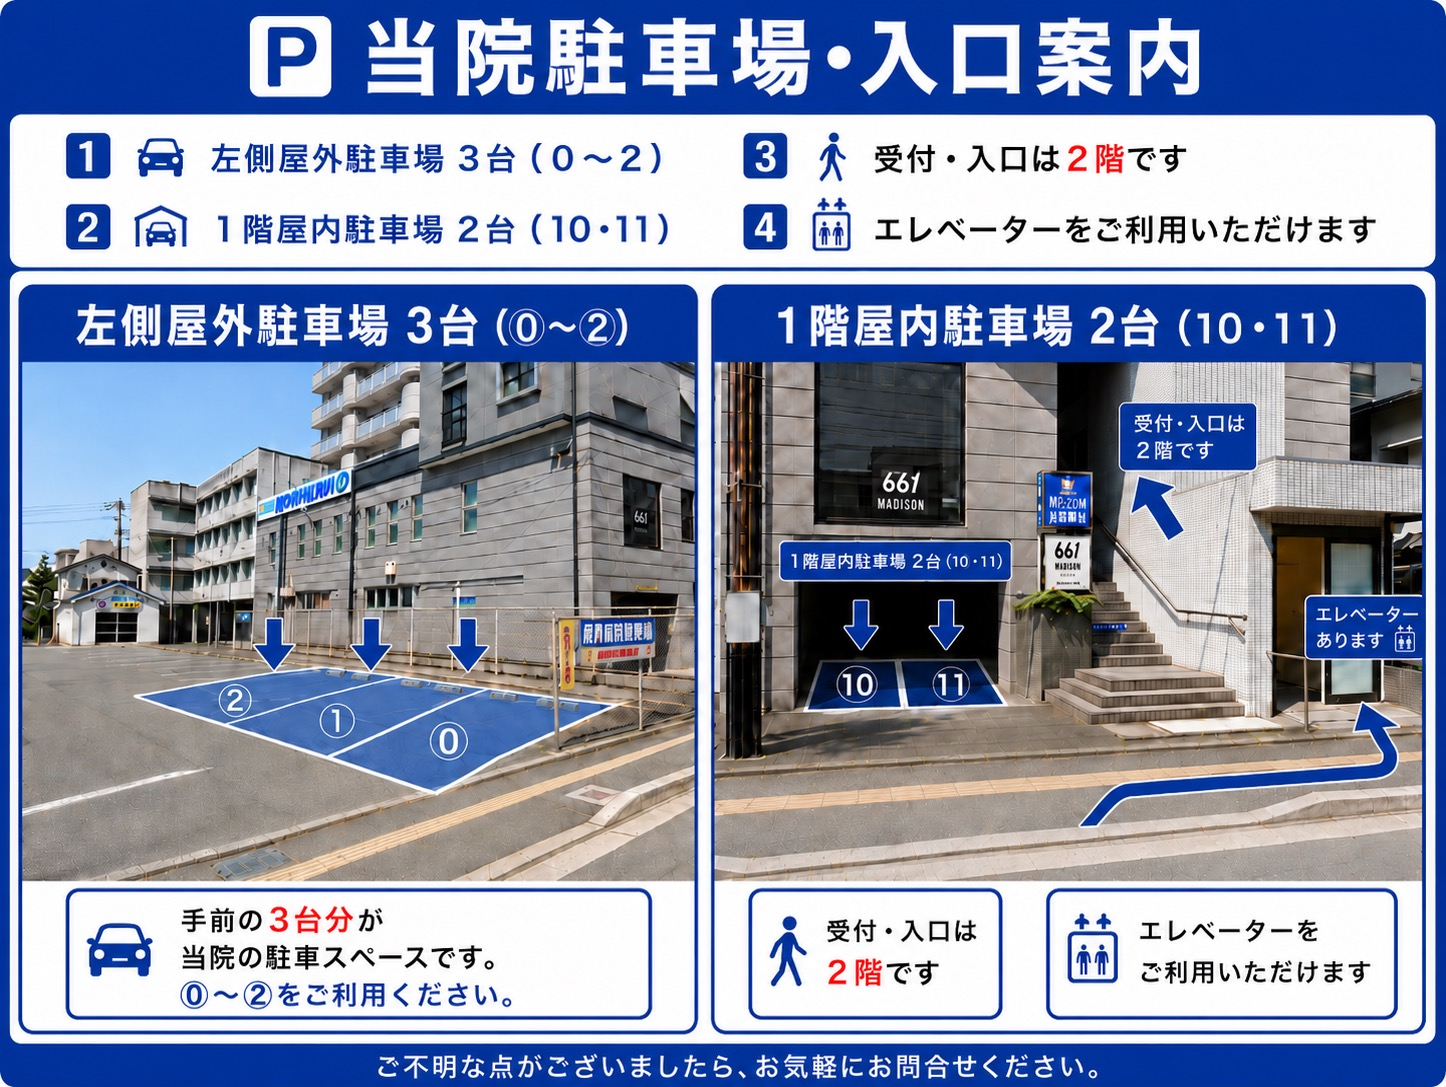
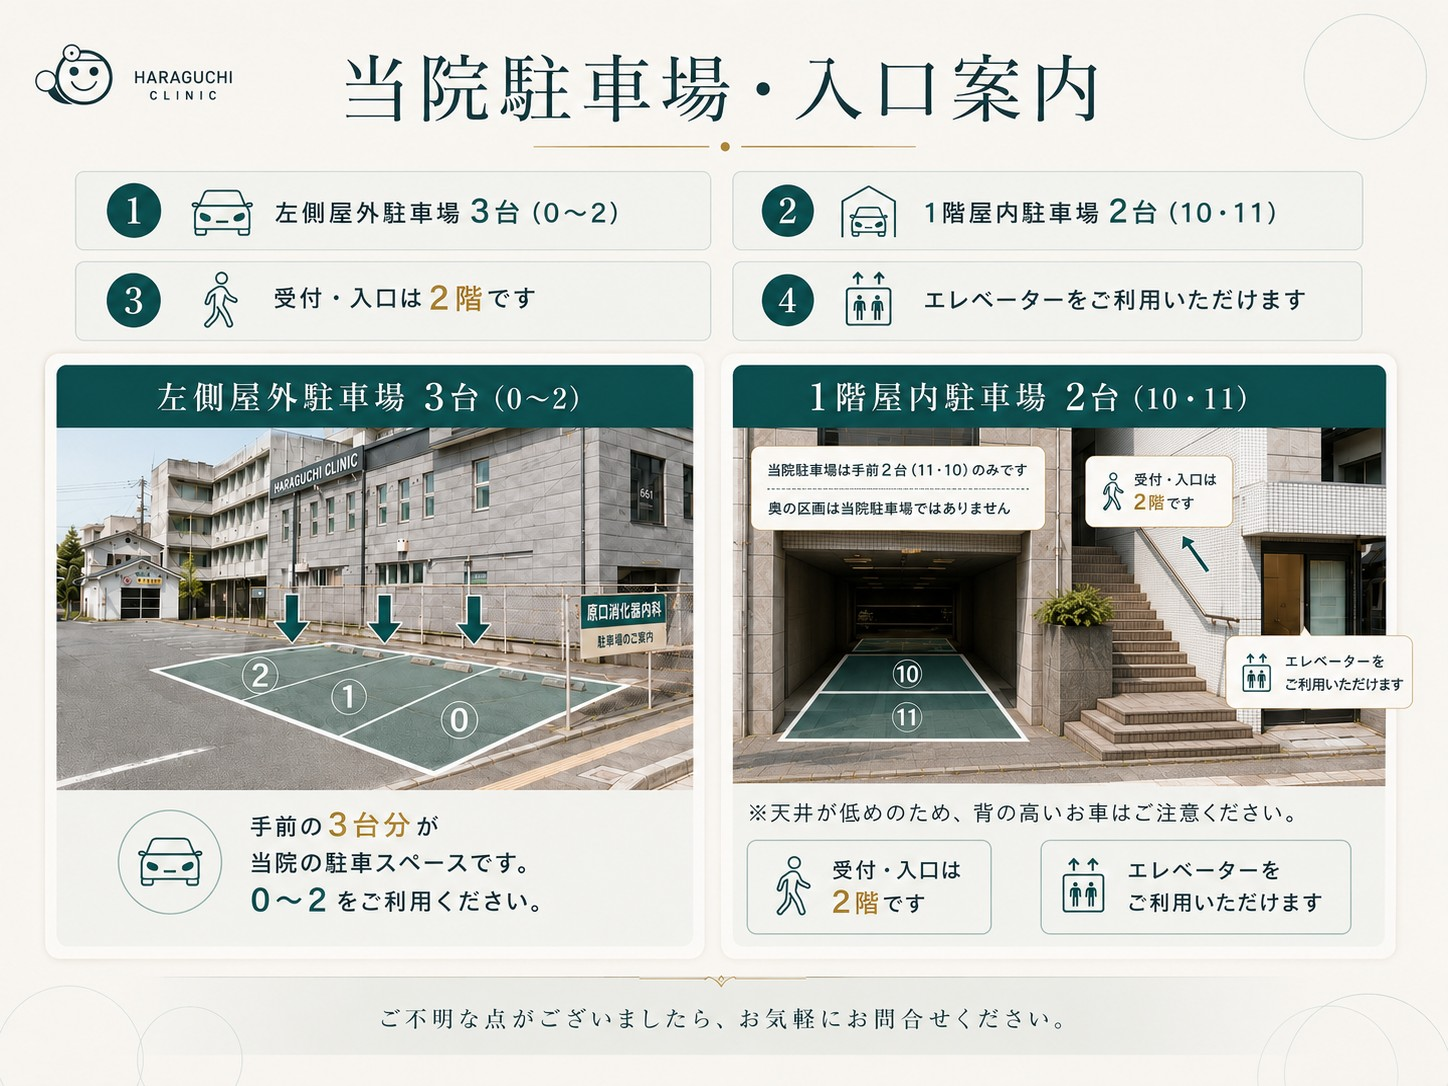
アクセスページの駐車場案内画像を新デザインに差し替え
「当院駐車場・入口案内」と「満車時の提携駐車場案内」の2枚を刷新版に更新。

diff --git a/access.html b/access.html
@@ -125,7 +125,7 @@
                         </ul>
 
                         <figure class="parking-figure">
-                            <img src="images/parking-guide.jpg" width="1446" height="1087" loading="lazy" alt="当院駐車場のご案内。左側屋外駐車場3台（0〜2番）、1階屋内駐車場2台（10・11番）。受付・入口は2階、エレベーターをご利用いただけます。">
+                            <img src="images/parking-guide.jpg" width="1448" height="1086" loading="lazy" alt="当院駐車場のご案内。左側屋外駐車場3台（0〜2番）、1階屋内駐車場2台（10・11番）。受付・入口は2階、エレベーターをご利用いただけます。">
                             <figcaption>駐車場と入口のご案内</figcaption>
                         </figure>
 
@@ -140,7 +140,7 @@
                                 駐車券を受付へお持ちください。サービス券をお渡しします。
                             </p>
                             <figure class="parking-figure">
-                                <img src="images/trustpark-matsuura-guide.jpg" width="1416" height="1111" loading="lazy" alt="当院からトラストパーク松浦町までの徒歩ルートと、駐車券を受付へ持参する手順の案内地図">
+                                <img src="images/trustpark-matsuura-guide.jpg" width="1484" height="1060" loading="lazy" alt="当院からトラストパーク松浦町までの徒歩ルートと、駐車券を受付へ持参する手順の案内地図">
                                 <figcaption>満車時の提携駐車場「トラストパーク松浦町」案内</figcaption>
                             </figure>
                         </section>